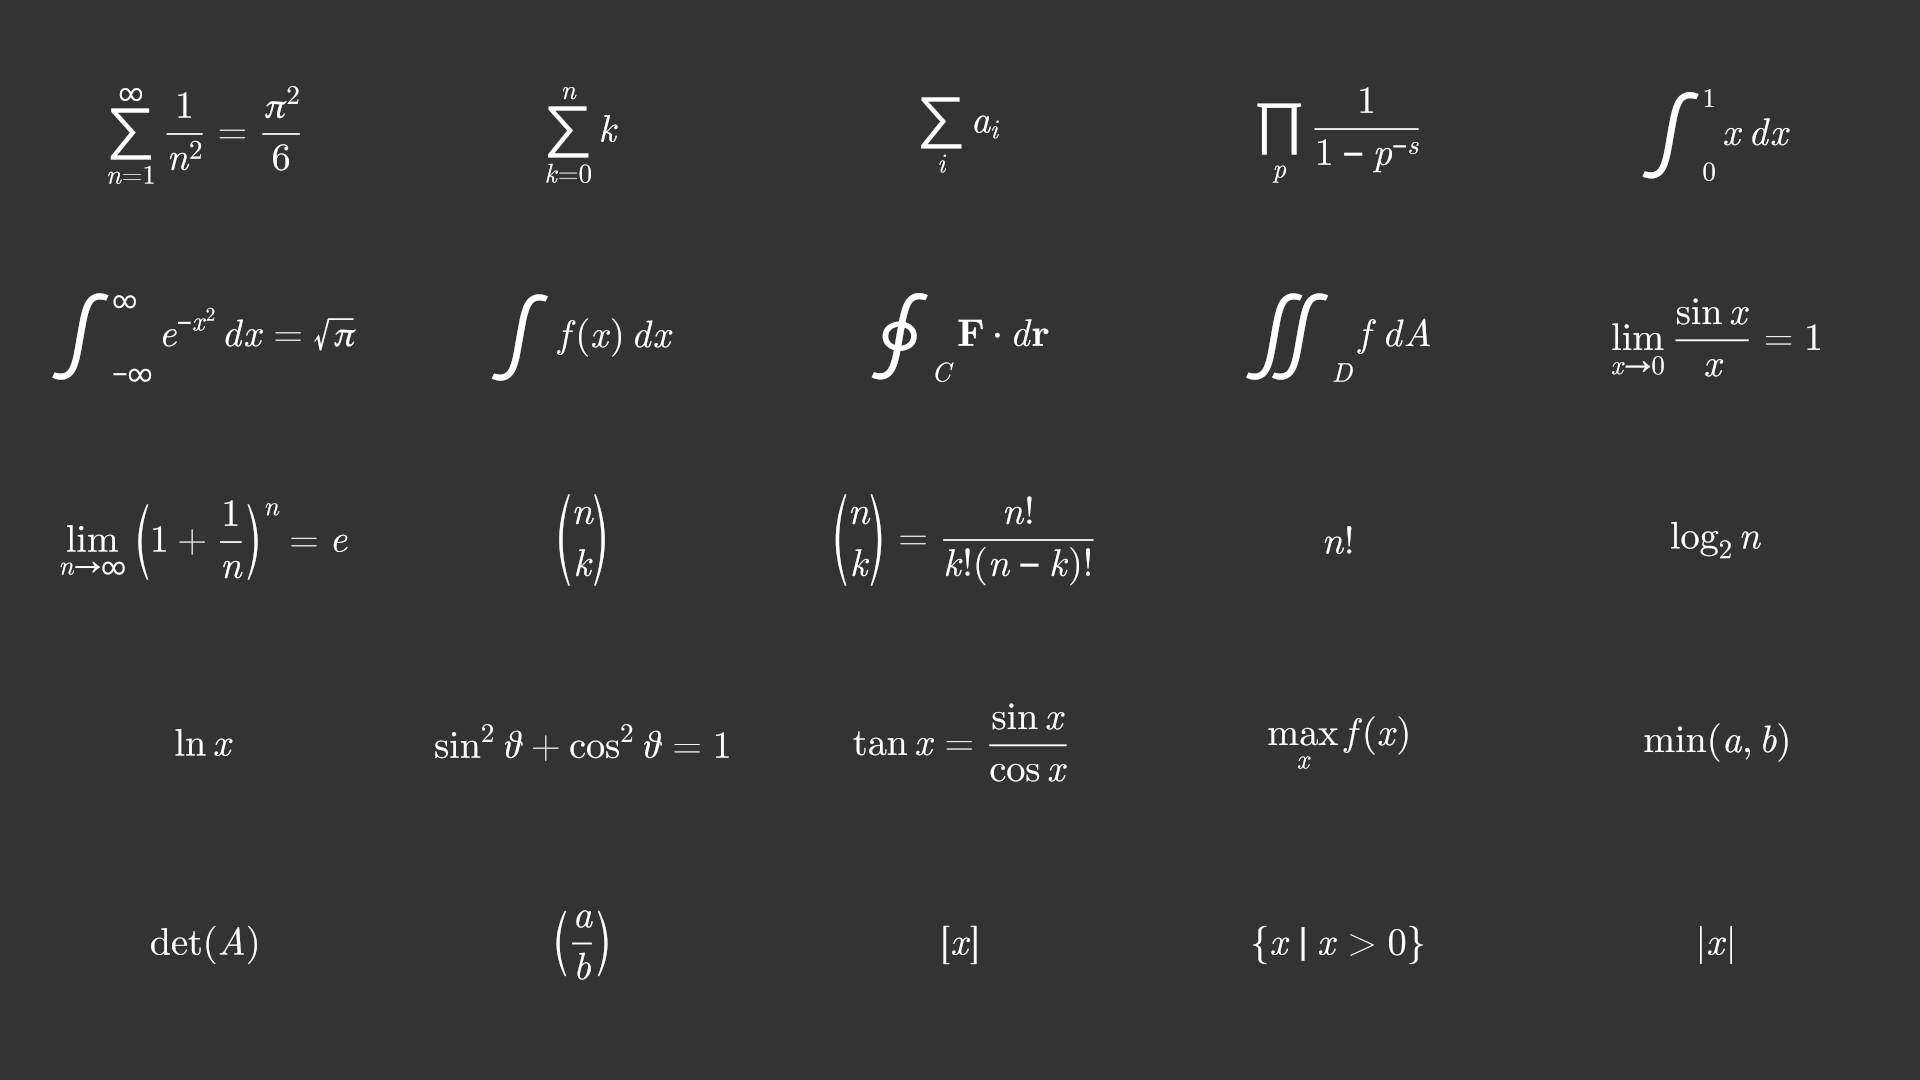
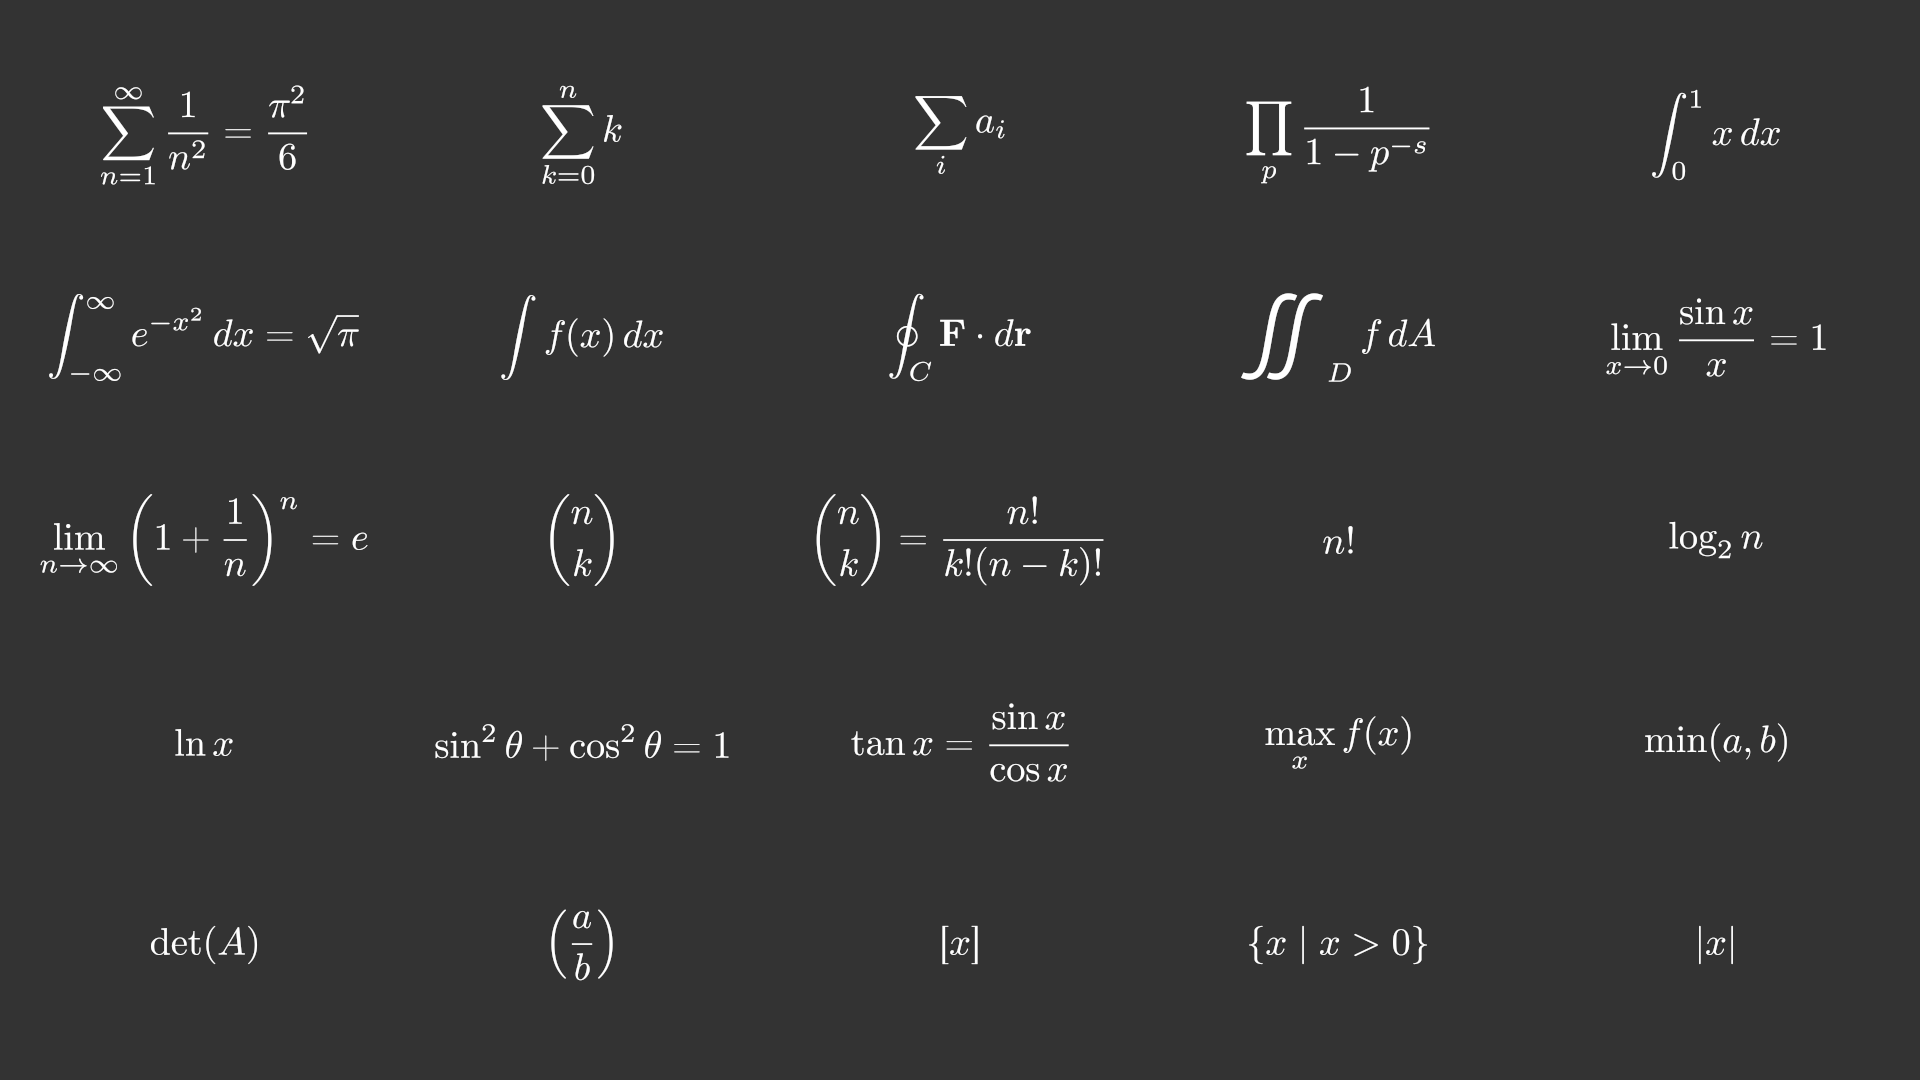
fix(gallery): regenerate the Look Gallery from a clean build; the regenerator asks the portal for an exact output path (fm-look-gallery-clean-provenance-guard-kbig)
look_gallery (5 of 23) and e2e lifecycle.video_color_and_gallery_provenance were red on main:
d845a7da's guard refuses the committed manifest's +dirty identities. The cleaned TSV that kbig's
first closure cited was an uncommitted relabel. This is a real regeneration:
- Built from a066063f with FMN_BUILD_ID through rch (uvx maturin 1.14.1, python 3.13). The
  wheel's .so carries git:a066063fe25a… and that commit's bootstrap changes (sha256 39f83b70).
- Installed into a fresh CPython 3.13.1 + NumPy 2.5.2 venv, then
  `scripts/regenerate_look_gallery.py --fmn-python <venv>/bin/fmn-python`: 29 panels, each a
  certified 1920x1080 final still. Every row and the release are now git:a066063f, with no
  +dirty or +unverified. Revision 7.
- 11 renders changed: math_formula, the math sheets, and the README scenes carrying TeX
  (hello, square_to_circle, braced_matrix, colored_words, graph_on_axes, highlights,
  piecewise_cases, plane_and_vectors). The ones viewed side by side with their previous renders
  (math_formula, hello, square_to_circle) show the CM math faces of ADR-0028: cmmi letters,
  cmex's display integral with TeX's limit placement, and the cmex radical. 18 are
  pixel-identical. Changed panels reset to `unreviewed` for the owner verdict lane (fm-5wq.50).
  The reference captures were read, not recaptured.
- The regenerator passed `--video_dir <file>.png`. The portal's single-scene --video_dir is a
[…]

diff --git a/scripts/regenerate_look_gallery.py b/scripts/regenerate_look_gallery.py
@@ -104,7 +104,7 @@ def render_portal(fmn_python, source, scene, resolution, work):
     """The portal's certified final still and the build id its provenance names."""
     png = work / "portal.png"
     argv = [fmn_python, "--robot", str(ROOT / source), scene, "--format", "png", "--reproducible",
-            "--resolution", resolution, "--video_dir", str(png)]
+            "--resolution", resolution, "--output", str(png)]
     done = subprocess.run(argv, cwd=ROOT, capture_output=True, text=True, timeout=900)
     lines = [line for line in done.stdout.splitlines() if line.startswith("{")]
     receipt = json.loads(lines[-1]) if lines else {}
